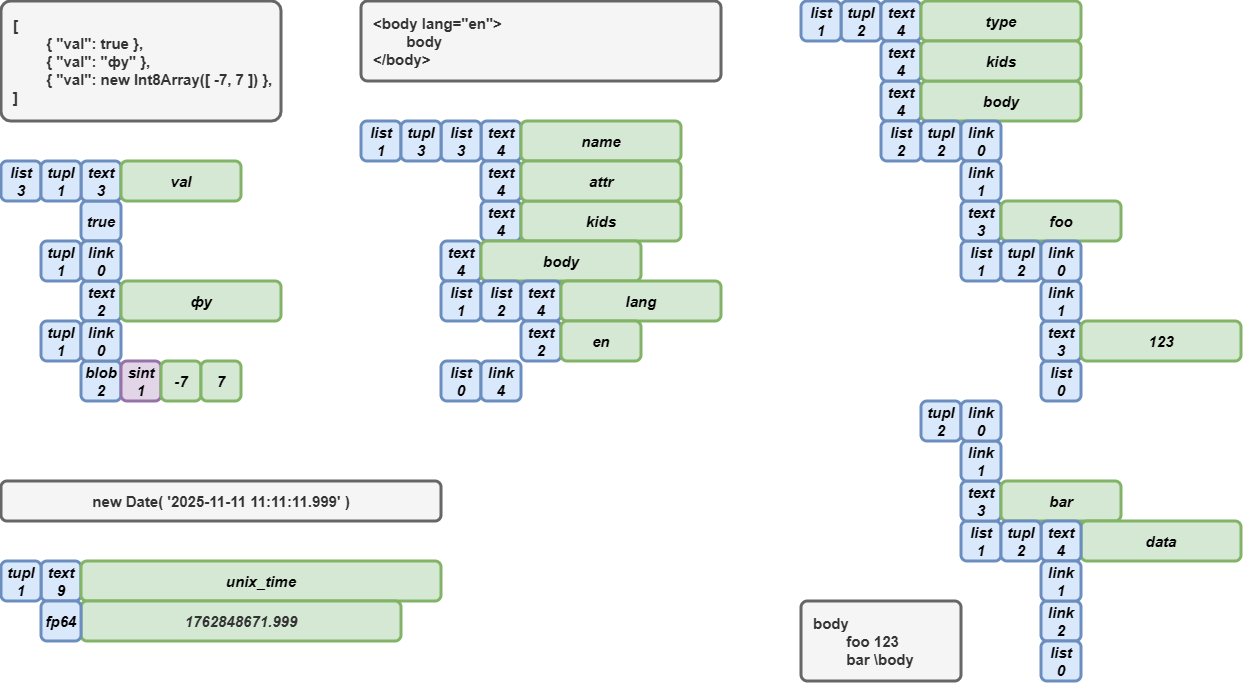
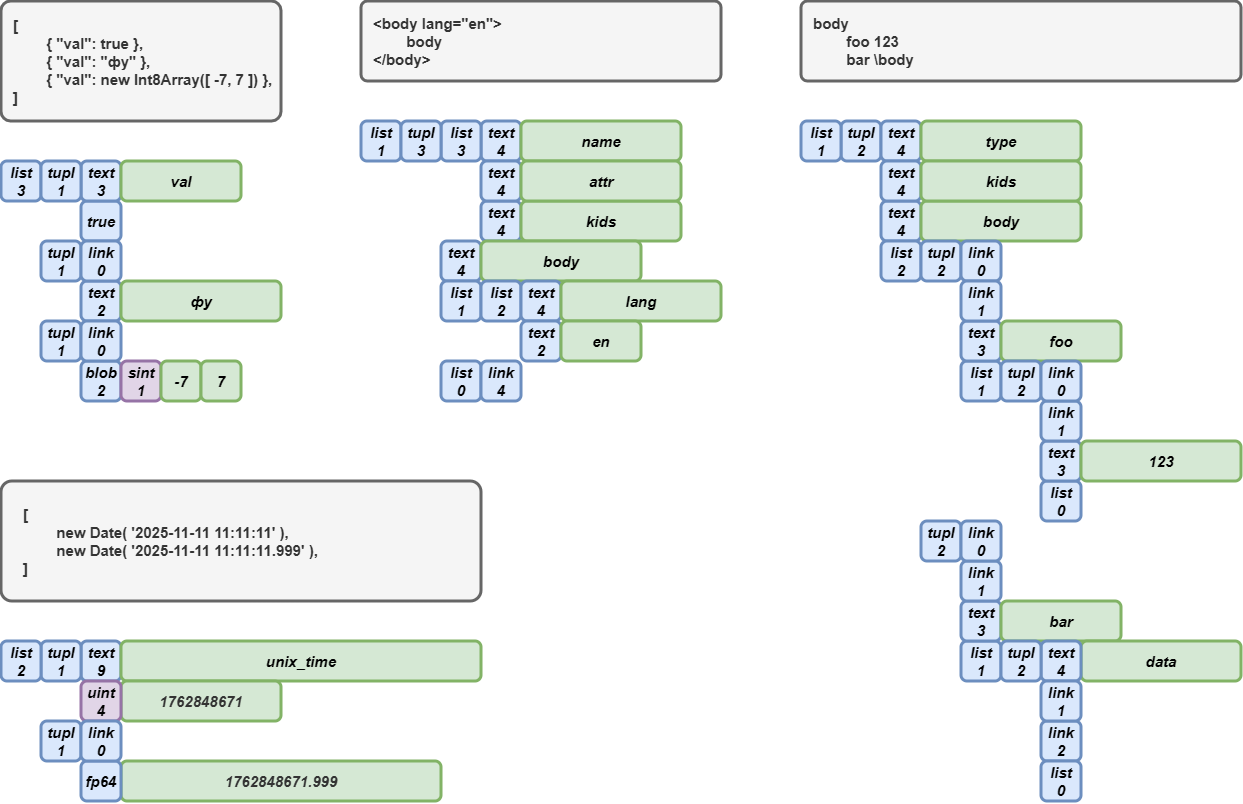
short date

diff --git a/vary/vary.test.ts b/vary/vary.test.ts
@@ -212,10 +212,16 @@ namespace $.$$ {
 		
 		"vary pack Date"( $ ) {
 			
-			const date = new Date( '2025-01-02T03:04:05.678' )
+			const date1 = new Date( '2025-01-02T03:04:05' )
 			check(
-				date,
-				[ tupl|1, text|9, ... str('unix_time'), fp64, ... new Uint8Array( new Float64Array([ date.valueOf() / 1000 ]).buffer ) ],
+				date1,
+				[ tupl|1, text|9, ... str('unix_time'), uint|l4, ... new Uint8Array( new Uint32Array([ date1.valueOf() / 1000 ]).buffer ) ],
+			)
+			
+			const date2 = new Date( '2025-01-02T03:04:05.678' )
+			check(
+				date2,
+				[ tupl|1, text|9, ... str('unix_time'), fp64, ... new Uint8Array( new Float64Array([ date2.valueOf() / 1000 ]).buffer ) ],
 			)
 			
 		},
